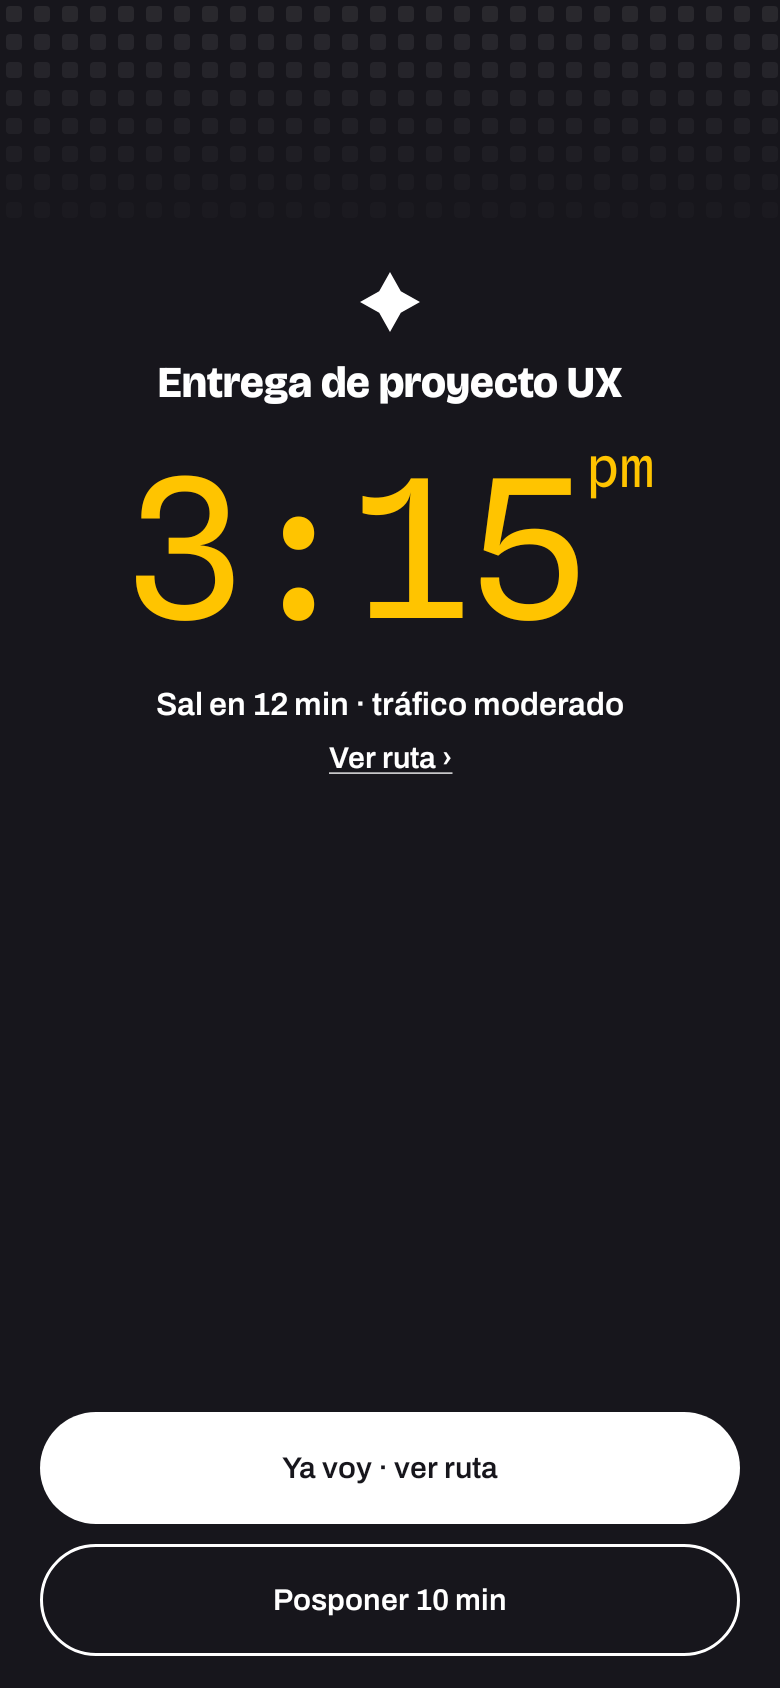
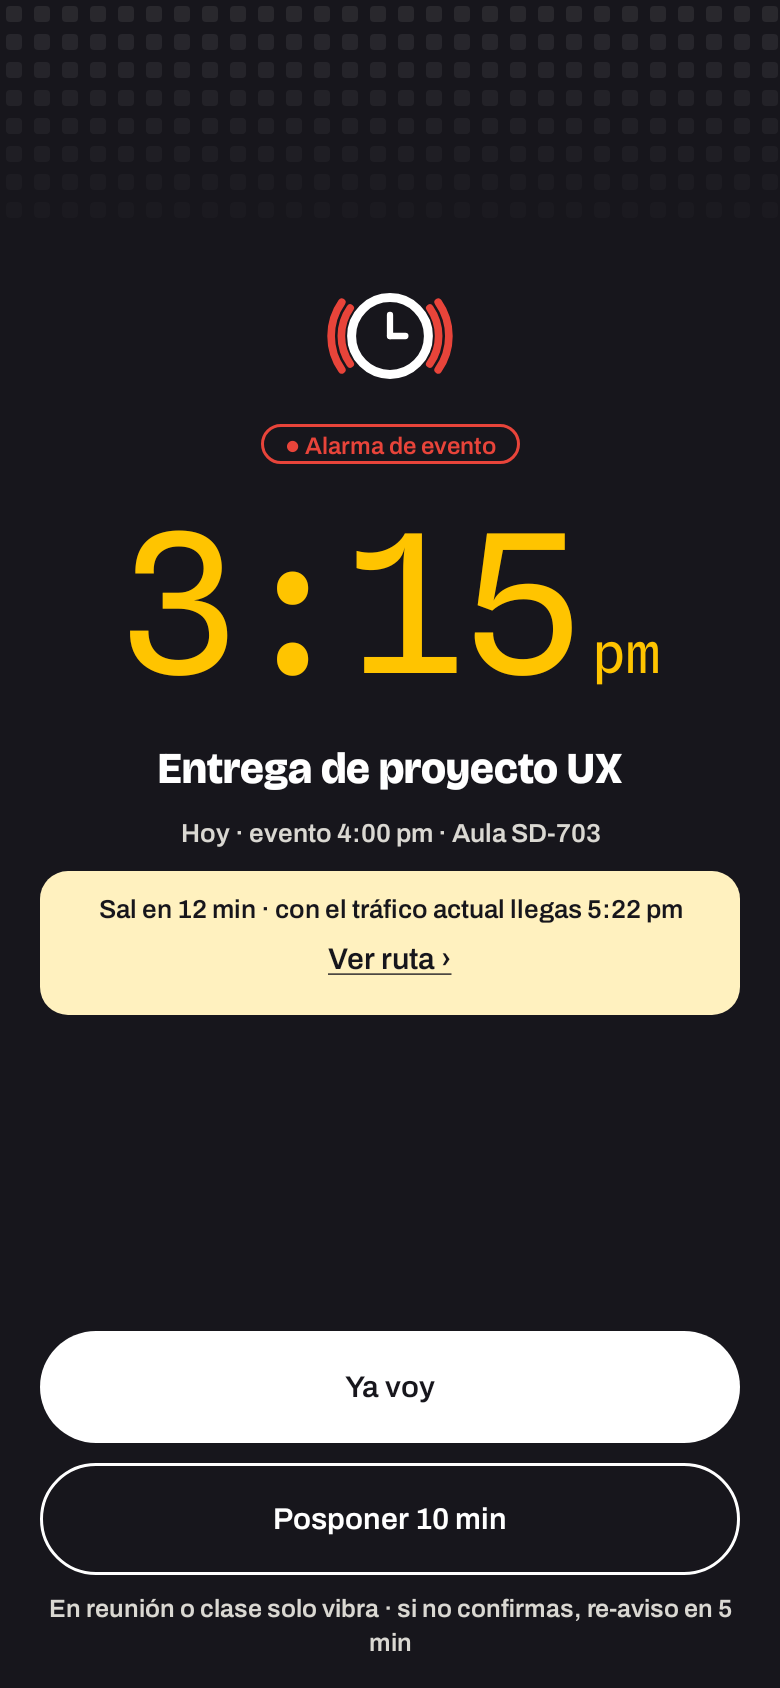
Verificación: regenera las capturas de M02b, M06-M11 y sus diálogos
Las nueve capturas eran del 2026-09-23, anteriores a los rediseños de
M06/M08/M09/M10/M11 del 2026-09-24, así que el README describía carencias
que esos commits ya habían resuelto (M10 sin chip «Alarma de evento» ni
tarjeta de tráfico, M11 con las secciones simplificadas, M09 sobre Tinta).
Se regeneraron con ./gradlew testDebugUnitTest desde
apps/movil/app/build/verificacion/ y se reescribieron sus filas de la tabla
comparándolas de nuevo contra los marcos de Figma.

Changed region(s): [[0.0308, 0.154, 0.9538, 0.6161], [0.0308, 0.7701, 0.9538, 0.9858]]

diff --git a/docs/verificacion/README.md b/docs/verificacion/README.md
@@ -13,7 +13,9 @@ M06 = `5:2`, M06d = `4329:1432`, M07 = `5:60`, M08 = `5:130`, M09 = `5:195`, M10
 M11d = `4331:1448`) y comparadas a ojo contra las capturas reales de `capturar()`. A diferencia de las pantallas de
 la Persona A, varias de estas pantallas implementan un subconjunto simplificado del marco (decidido en el brief de
 la tarea del plan que las construyó, no en esta Tarea 11): el detalle exacto de cada simplificación va en la fila
-correspondiente.
+correspondiente. Estas nueve capturas se regeneraron el 2026-09-24 tras los rediseños de M06, M08, M09, M10 y M11
+(con `./gradlew testDebugUnitTest` y copiadas desde `apps/movil/app/build/verificacion/`), y sus filas describen lo
+que se ve en esa versión.
 
 | Código | Marco Figma | Estado |
 |---|---|---|
@@ -30,15 +32,15 @@ correspondiente.
 | M04 | 4:189 | ok · pixel-perfect a pantalla completa (Tarea 14: captura del flujo T1, `regla.capturar("M04")` tras leer el QR de `e-entrega` desde M02 real) — ver nota M04 actualizada abajo. **Fix round de revisión final:** el asa ya tiene su relleno de 12 dp (`Espacio.HojaSuperior`) y el título «¡Alarma programada!» su gap de 12 dp (`Espacio.EntreBloques`) antes de este |
 | M04d | 4330:1432 | ok · pixel-perfect a pantalla completa (Tarea 14: captura del flujo T1, `regla.capturar("M04d-flujo")` con el diálogo «¿Eliminar alarma?» abierto sobre la hoja M04 y la lista M02, copiada como `M04d.png`) — ver nota M04 actualizada abajo. **Fix round de revisión final:** el mismo relleno del asa de M04 se ve también detrás del diálogo |
 | M05 | 4:223 | ok · diferencias aceptadas: 5ª alarma «Asado del semillero» / LUNES 31 (decisión D3, el marco solo muestra 4); snackbar «Alarma guardada · También en Google Calendar» con «Deshacer · 5 s» sobre el FAB, que es la colocación por defecto del `Scaffold` de Material 3 (el snackbar se ubica siempre encima del FAB cuando hay uno, con un hueco de ~16 dp; el marco los separa 60 dp) — ver nota M05 abajo. La tarjeta «Entrega de proyecto UX» muestra los chips «Nueva» y «✓ Escaneada» juntos (el marco solo muestra «Nueva»): ambos chips vienen de `dataset.json` (`a-entrega.chips`), fuente única de datos que esta tarea no puede tocar. El texto del snackbar parte en «Alarma guardada · También en» / «Google Calendar» (2 líneas) en vez de 1 línea (métrica de fuente de Robolectric, igual que M01/M03b). El resto (barra, agrupadores, tarjetas de HOY/MAÑANA, borde Verde Texto de la tarjeta nueva, FAB) alinea con el marco |
-| M02b | 4:2 | ok · comparación real contra Figma (Tarea 11, acceso MCP disponible). `M02b.png` se captura standalone en `M02bCalendarioScreenTest` (sin el `Scaffold` raíz de `NavegacionApp`): no incluye la barra inferior ni el FAB del marco (viven en el Scaffold compartido con M02/M05/M11, mismo patrón que `M04-contenido.png` de la Tarea 12); su `BarraSuperior("Calendario")` tampoco trae el selector de pestaña «Lista/Mes» ni el encabezado de mes «Agosto 2026» con flechas ni la fila de iniciales de día (L M X J V S D) del marco — así quedó escrito literalmente en el brief de la Tarea 3 del plan (navegación por pestañas inferiores en vez del selector superior del mockup), decisión del plan y no un defecto de esta tarea. La rejilla del mes sí marca los días con alarma con un punto bajo el número (equivalente en forma al guion del marco) y el día de hoy (27) resaltado en Tinta con número blanco, igual criterio «color + forma» que el marco. La tarjeta «Reunión con el tutor» trae el chip «Creada por mí» que el marco no dibuja en esa fila (viene de `dataset.json`, fuente única de datos) |
-| M06 | 5:2 | ok · comparación real. `M06.png` (montado standalone en `M06EditarAlarmaScreenTest`, `a-tutor`) reproduce con fidelidad los bloques que sí implementa: título, selector ANTICIPACIÓN (chips 10 min/30 min/1 h/Otro · N min, pastilla activa en Tinta), selector SONIDO, «Guardar cambios» (amarillo, único amarillo de la pantalla) y «Eliminar alarma» (enlace Coral Texto). El brief de la Tarea 4 del plan (código de ejemplo del propio brief) no incluye la tarjeta de resumen del evento (hora + título + chip «✓ Escaneada»), el interruptor «Sumar trayecto desde mi ubicación», el interruptor «Respetar "No molestar"», la fila «Posponer 10 min ›» ni el campo «NOTAS» que sí trae el marco 5:2 — es una simplificación decidida en el propio brief de esa tarea (ya revisado y fusionado antes de esta Tarea 11), no algo que esta verificación deba corregir. La fila «Alarma conectada · Confirmar antes de auto-ajustarse» combina en una sola fila lo que el marco separa en el encabezado «CAMBIOS DEL ORGANIZADOR» + fila «Confirmar antes de auto-ajustarse»; «Gestionar en el calendario» se dibuja como enlace azul subrayado sobre «Guardar cambios» en vez de la fila gris con chevron que trae el marco debajo de SONIDO |
-| M06d | 4329:1432 | ok · pixel-perfect en el contenido del diálogo: título «¿Eliminar alarma?», cuerpo con el mensaje interpolado («Dejarás de recibir el aviso de "Gimnasio" (jue 27 · 9:30 am)...»), «Conservar» amarillo primario y «Eliminar» contorno Coral Texto, radio 20 e igual jerarquía que el marco (acción segura prominente). El diálogo aparece más arriba en `M06d.png` que en el marco porque el contenido de M06 detrás es más corto que el del marco (ver fila M06 arriba); el `Dialog` en sí es el mismo componente `DialogoConfirmacion` ya verificado pixel-perfect en M04d |
-| M07 | 5:60 | ok · comparación real. Alcanzable solo por flujo (`FlujosPersonaBTest`, T3: M02 → M02h → M07), capturado ahí con `regla.capturar("M07")` tras montar la pantalla vía `entradasApp`. El formulario (TÍTULO, LUGAR, DESCRIPCIÓN vacíos con solo su etiqueta, chips de ANTICIPACIÓN, «Guardar y crear QR» amarillo) coincide en estructura y campos vacíos-solo-etiqueta con el marco. Diferencias: el título de la barra dice «Crear evento» (marco: «Nuevo evento»); FECHA y HORA son un solo campo «Fecha y hora· Mañana · 10:00 am» de solo lectura en vez de dos campos lado a lado (marco: «Lun 31 ago» / «12:30 pm»); solo 3 chips de anticipación (10 min/30 min/1 h, marco trae también «Otro»); falta la tarjeta gris con el ícono QR y la nota «El código QR del evento se genera automáticamente al guardar, listo para compartir.». Estas simplificaciones vienen del alcance de la tarea que implementó M07 (anterior a esta Tarea 11); no se modifican aquí |
-| M08 | 5:130 | ok · comparación real. Alcanzable solo por flujo (mismo T3 de `FlujosPersonaBTest`, tras «Guardar y crear QR»), capturado con `regla.capturar("M08")`. El QR (tag `qr`), el título del evento y los tres botones/acciones (Compartir por WhatsApp, Descargar, Copiar enlace) están presentes y disparan sus callbacks reales. Diferencias frente al marco: el título de la barra dice «QR del evento» (marco: «Compartir evento»); sin la tarjeta blanca con sombra que envuelve título+QR ni la fecha/hora bajo el título ni «Escanéalo y te avisamos» + su nota; sin la línea «Tu alarma quedó programada · sonará…»; sin la fila de iconos WhatsApp/Correo/Más; un solo botón «Descargar como imagen» en vez de «Descargar PNG»/«Descargar PDF»; «Copiar enlace» es un botón de contorno en vez de un enlace azul subrayado. Curiosidad de captura: se ve un pequeño subrayado bajo la «Q» de «QR del evento» en `M08.png` — es el anillo de foco de accesibilidad que Robolectric deja sobre el primer elemento enfocable de la ventana nueva (la barra «‹»/título), no reproducible en un dispositivo real ni parte del diseño |
-| M09 | 5:195 | ok · comparación real. Diferencia notable: `M09CambioEventoScreen` usa fondo Tinta pleno con `sobreTinta = true` en textos/botones (código literal del brief de la Tarea 7 del plan), mientras el marco 5:195 usa Blanco Papel + banda de textura (MOCKUPS.md, fila «M04/M09»); es una decisión de ese brief anterior a esta tarea, no algo que corregir aquí. También faltan el chip «Notificación push · hace 2 min», la tabla «ANTES/AHORA» con tachado y el chip «✓ verificado» que trae el marco. Lo que sí coincide con precisión: el bloque «SI ACEPTAS, SONARÁ» con la hora «4:45 pm» en Amarillo Energía (Spline Sans Mono, mismo tratamiento tipográfico que el marco), «30 min de margen + 15 min de trayecto», «Antes sonaba 3:15 pm», «Aceptar cambio» en blanco (excepción documentada «sobre Tinta el primario es blanco») y «Mantener alarma» en contorno blanco |
-| M10 | 6:2 | ok · comparación real. Estructura general coincide con el marco (banda de textura arriba, fondo Tinta, hora protagonista «3:15 pm» en Amarillo Energía Spline Sans Mono, dos acciones de 56 pt ancladas abajo). Diferencias: el ícono superior es `Destello` (mismo componente reutilizado en M01/M02v/M08) en vez de la ilustración «esfera de reloj con ondas coral» del marco (no existe ese asset en la librería de iconos del proyecto); sin el chip «● Alarma de evento»; «Ver ruta ›» se dibuja como enlace bajo «Sal en 12 min · tráfico moderado» en vez de vivir dentro de un destacado con fondo Amarillo Suave; sin la nota final «En reunión o clase solo vibra · si no confirmas, re-aviso en 5 min». El botón primario sí dice «Ya voy · ver ruta», igual que el marco. La hora capturada (3:15 pm) es el valor base de `a-entrega` en `dataset.json` (la prueba no pasa por M09), distinto de la hora post-cambio (4:45 pm) que ilustra el marco — mismo criterio ya documentado en M02/M09 de mostrar el valor real del dataset en el estado capturado |
-| M11 | 6:28 | ok · comparación real. `M11.png` se captura standalone en `M11AjustesScreenTest` (mismo patrón sin Scaffold que M02b: sin barra inferior). Estructura de secciones simplificada frente al marco: «NOTIFICACIONES» (No molestar, Confirmar antes de auto-ajustar) en vez de «ALARMAS» con anticipación/sonido/posponer predeterminados; «PERMISOS» con «Concedido»/«Concedido»/«Falta» en texto de color plano (verde/verde/coral) en vez de las píldoras «✓ activo»/«✓ activo»/«Revisar» del marco — mismo criterio «color + forma» (el texto mismo cambia, no solo el color) aunque sin el contorno de píldora; «CALENDARIOS» reducido a «Vinculados: google» en vez de la fila «Google Calendar · Conectado ›»; «CUENTA» sin la fila «Gestionar mis datos (Ley 1581)» ni el pie «Alarmas QR · versión 1.0 · prototipo». Alcance decidido en el brief de la Tarea 9 del plan, anterior a esta tarea |
-| M11d | 4331:1448 | ok · pixel-perfect en el contenido del diálogo: título «¿Cerrar sesión?», cuerpo «Tus alarmas quedan guardadas en tu cuenta. Para volver a verlas y recibir los cambios del organizador tendrás que iniciar sesión de nuevo.» idéntico al marco, «Cancelar» amarillo primario (acción segura) y «Cerrar sesión» en contorno Tinta (no Coral, correcto: cerrar sesión no es destructivo) — coincide con la regla de `DialogoConfirmacion` de CLAUDE.md. El diálogo queda más arriba en `M11d.png` que en el marco por el mismo motivo que M06d (menos contenido detrás, ver fila M11) |
+| M02b | 4:2 | ok · comparación real. `M02b.png` se captura standalone en `M02bCalendarioScreenTest` (sin el `Scaffold` raíz de `NavegacionApp`), así que sigue sin la barra inferior ni el FAB del marco (viven en el Scaffold compartido con M02/M05/M11, mismo patrón que `M04-contenido.png` de la Tarea 12). El resto alinea con el marco: barra «Mis alarmas» con el selector «Lista/Mes» (píldora activa en Tinta), encabezado «Agosto 2026» con las dos flechas, fila de iniciales L M X J V S D, rejilla con el día de hoy (27) resaltado en Tinta con número blanco y guion bajo los días con alarma (criterio «color + forma»), agrupador «JUE 27 · 2 ALARMAS» y las dos tarjetas del día. La tarjeta «Reunión con el tutor» ya no muestra el chip «Creada por mí» de `dataset.json` (la lista del calendario monta `TarjetaAlarma` con `mostrarChips = false`), igual que el marco. Diferencia: la rejilla dibuja una sexta fila con el 31 (marcado, alarma «Asado del semillero») y los días grises del 1 al 6 de septiembre, mientras el marco corta el mes en el 30 |
+| M06 | 5:2 | ok · comparación real. `M06.png` (montado standalone en `M06EditarAlarmaScreenTest`, `a-tutor`) ya trae todos los bloques del marco y en el mismo orden: barra «‹ Editar alarma», tarjeta de resumen (hora + título + «fecha corta · evento h:mm» + chip de origen), selector ANTICIPACIÓN (10 min/30 min/1 h/Otro, pastilla activa en Tinta), «Sumar trayecto desde mi ubicación», selector SONIDO (Sonar/Vibrar/Silencio), «Respetar "No molestar"», «Posponer · 10 min ›», encabezado CAMBIOS DEL ORGANIZADOR con «Confirmar antes de auto-ajustarse», campo NOTAS, la fila gris «Gestionar en el calendario ›», «Guardar cambios» (amarillo, único amarillo de la pantalla) y «Eliminar alarma» (enlace Coral Texto). Diferencias: la captura usa `a-tutor` («Reunión con el tutor», 7:30 am, «jue 27 · evento 8:00 am», chip «Creada por mí») mientras el marco ilustra `a-entrega` («Entrega de proyecto UX», 3:15 pm, chip «✓ Escaneada») — ambos son datos de `dataset.json`; por lo mismo NOTAS sale vacío (solo su etiqueta), porque `a-tutor` no trae notas, mientras el marco muestra «Llevar maqueta impresa» (verificado aparte con `a-entrega` en la misma prueba). «Guardar cambios» y «Eliminar alarma» van al final de la columna desplazable, justo bajo «Gestionar en el calendario», en vez de anclados al borde inferior como en el marco |
+| M06d | 4329:1432 | ok · pixel-perfect en el contenido del diálogo: título «¿Eliminar alarma?», cuerpo con el mensaje interpolado («Dejarás de recibir el aviso de "Gimnasio" (jue 27 · 9:30 am)...»), «Conservar» amarillo primario y «Eliminar» contorno Coral Texto, radio 20 e igual jerarquía que el marco (acción segura prominente). El velo Tinta 55 % y la pantalla M06 completa detrás también coinciden con el marco. Diferencia: la prueba abre el diálogo sobre `a-gimnasio` («Gimnasio», 9:00 am), así que el cuerpo interpola «"Gimnasio" (jue 27 · 9:30 am)» y ocupa 3 líneas, mientras el marco ilustra `a-entrega` («Entrega de proyecto UX», dom 30 · 4:00 pm) — dato de `dataset.json`, no un defecto. El `Dialog` en sí es el mismo componente `DialogoConfirmacion` ya verificado pixel-perfect en M04d |
+| M07 | 5:60 | ok · comparación real. Alcanzable solo por flujo (`FlujosPersonaBTest`, T3: M02 → M02h → M07), capturado ahí con `regla.capturar("M07")` tras montar la pantalla vía `entradasApp`. La pantalla alinea con el marco: barra «‹ Nuevo evento», TÍTULO, FECHA y HORA lado a lado, LUGAR (OPCIONAL) y DESCRIPCIÓN (OPCIONAL) vacíos con solo su etiqueta, los cuatro chips de ANTICIPACIÓN (10 min/30 min/1 h/Otro, «30 min» activo en Tinta), la tarjeta gris con el ícono QR y la nota «El código QR del evento se genera automáticamente al guardar, listo para compartir.», y «Guardar y crear QR» amarillo anclado abajo. Diferencias: FECHA y HORA son de solo lectura con el valor por defecto «Mañana» / «10:00 am» (MISO no tiene selector de fecha construido, documentado en el KDoc de `M07CrearEventoScreen`) en vez de «Lun 31 ago» / «12:30 pm» del marco; el campo TÍTULO se dibuja en reposo, mientras el marco lo muestra enfocado con borde Tinta |
+| M08 | 5:130 | ok · comparación real. Alcanzable solo por flujo (mismo T3 de `FlujosPersonaBTest`, tras «Guardar y crear QR»), capturado con `regla.capturar("M08")`. Todos los bloques del marco están y en el mismo orden: barra «‹ Compartir evento», tarjeta blanca con el título «Asado familiar», la fecha/hora del evento, el QR (tag `qr`), «Escanéalo y te avisamos» y su nota; debajo «Tu alarma quedó programada · sonará…», el chip amarillo «Aún sin escaneos · recién creado», la fila de iconos WhatsApp/Correo/Más, «Descargar PNG» y «Descargar PDF» en contorno lado a lado, «Compartir por WhatsApp» amarillo y «Copiar enlace del evento» como enlace azul subrayado. Diferencias: la fecha/hora dicen «Vie 28 de agosto · 10:00 am» y «sonará 9:30 am» frente a «Lun 31 de agosto · 12:30 pm» / «12:00 pm» del marco, porque el evento se crea en M07 con su fecha y hora por defecto (ver fila M07) y 30 min de anticipación; el patrón de módulos del QR es el que dibuja el componente real, distinto del QR ilustrativo del marco |
+| M09 | 5:195 | ok · comparación real. La pantalla ya es Blanco Papel con la banda de textura de módulos QR arriba (como el marco y MOCKUPS.md, fila «M04/M09»), con la cabecera «Cambio en tu evento ✕», el chip «Notificación push · hace 2 min», el título H2 «"Entrega de proyecto UX" cambió de hora», la línea «Cambio hecho por MISO · UniAndes» con el chip «✓ verificado» en contorno verde, la tarjeta ANTES/AHORA con el valor antiguo tachado, el bloque Amarillo Suave «SI ACEPTAS, SONARÁ» con «4:45 pm» en Spline Sans Mono y «30 min de margen + trayecto · antes sonaba 3:15 pm», «Aceptar cambio» amarillo y «Mantener alarma» en contorno Tinta. Diferencia: la fila AHORA dice «dom 30 · 5:30 pm · Aula SD-703, Universidad» y se parte en dos líneas, porque el lugar sale de `dataset.json` (`a-entrega.lugar`) y la fecha corta va en minúscula, mientras el marco lo escribe «Dom 30 · 5:30 pm · misma aula SD-703» en una línea |
+| M10 | 6:2 | ok · comparación real. Coincide con el marco en todo el bloque: banda de textura arriba sobre fondo Tinta, la ilustración de esfera de reloj con ondas Coral, el chip «● Alarma de evento» en contorno Coral, la hora protagonista en Amarillo Energía (Spline Sans Mono con el sufijo en la misma línea), el título del evento, la línea «Hoy · evento … · Aula SD-703», la tarjeta de tráfico con fondo Amarillo Suave («Sal en 12 min · con el tráfico actual llegas 5:22 pm» + «Ver ruta ›»), «Ya voy» (blanco, excepción documentada «sobre Tinta el primario es blanco») y «Posponer 10 min» en contorno, ambas de 56, y la nota final «En reunión o clase solo vibra · si no confirmas, re-aviso en 5 min». Diferencias: la hora capturada es «3:15 pm» y el evento «4:00 pm», los valores base de `a-entrega` en `dataset.json` (la prueba no pasa por M09), frente a «4:45 pm» / «5:30 pm» post-cambio que ilustra el marco — mismo criterio ya documentado en M02/M09; «Ver ruta ›» cae en una segunda línea dentro de la tarjeta en vez de quedar al final de la misma línea |
+| M11 | 6:28 | ok · comparación real. `M11.png` se captura standalone en `M11AjustesScreenTest` (mismo patrón sin Scaffold que M02b: sin barra inferior). Las cuatro secciones del marco están completas y en orden: «ALARMAS» (Anticipación por defecto · 30 min ›, Sonido predeterminado ›, Posponer predeterminado · 10 min ›, «Respetar "No molestar" (vibrar)» y «Confirmar reajustes del organizador» con interruptor), «PERMISOS DEL SISTEMA» con las píldoras «✓ activo»/«✓ activo»/«Revisar» (contorno verde/verde/coral, criterio «color + forma») y la nota «Sin este permiso, Android puede silenciar la alarma en segundo plano.», «CALENDARIOS» con «Google Calendar · Conectado ›», «CUENTA Y DATOS» con «Gestionar mis datos (Ley 1581) ›» y «Cerrar sesión ›», y el pie «Alarmas QR · versión 1.0 · prototipo». Diferencias: «Sonido predeterminado» muestra «Sonar» (valor de `dataset.json`, `usuario.ajustes.sonidoPorDefecto`) donde el marco escribe «Clásico»; la captura es standalone en `M11AjustesScreenTest`, así que no incluye la barra inferior del marco (vive en el `Scaffold` compartido, mismo patrón que M02b) |
+| M11d | 4331:1448 | ok · pixel-perfect en el contenido del diálogo: título «¿Cerrar sesión?», cuerpo «Tus alarmas quedan guardadas en tu cuenta. Para volver a verlas y recibir los cambios del organizador tendrás que iniciar sesión de nuevo.» idéntico al marco, «Cancelar» amarillo primario (acción segura) y «Cerrar sesión» en contorno Tinta (no Coral, correcto: cerrar sesión no es destructivo) — coincide con la regla de `DialogoConfirmacion` de CLAUDE.md. El velo Tinta 55 % y la pantalla M11 completa detrás también alinean con el marco; las únicas diferencias son las de la fila M11 (el «Sonar» del fondo y la barra inferior ausente por ser una captura standalone) |
 
 **Nota M01 (Tarea 5, corregida en las rondas 1 y 2 de revisión):** el ayudante `capturar()` de `Verificacion.kt` ya
 no usa `captureToImage()` — esa API cuelga bajo Robolectric en este proyecto (`forceRedraw()` espera hasta 2000 ms
